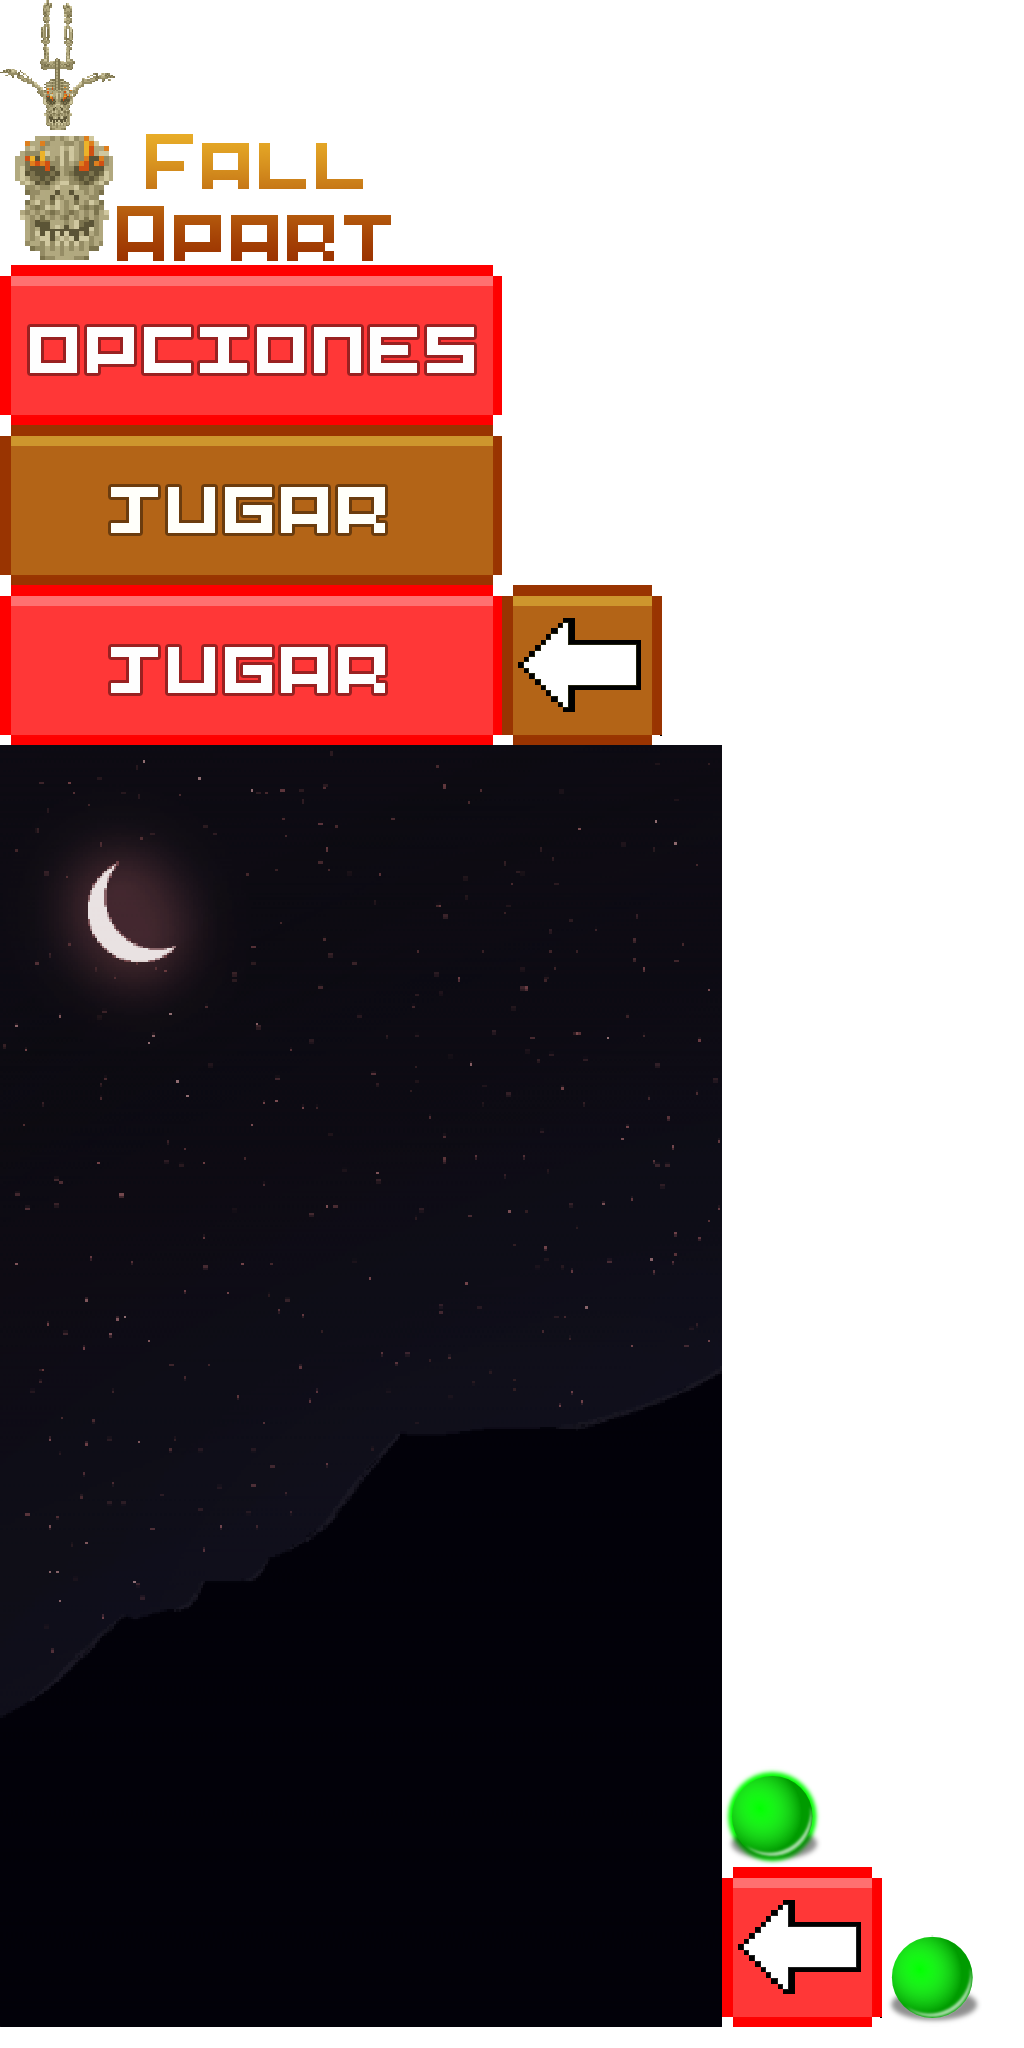
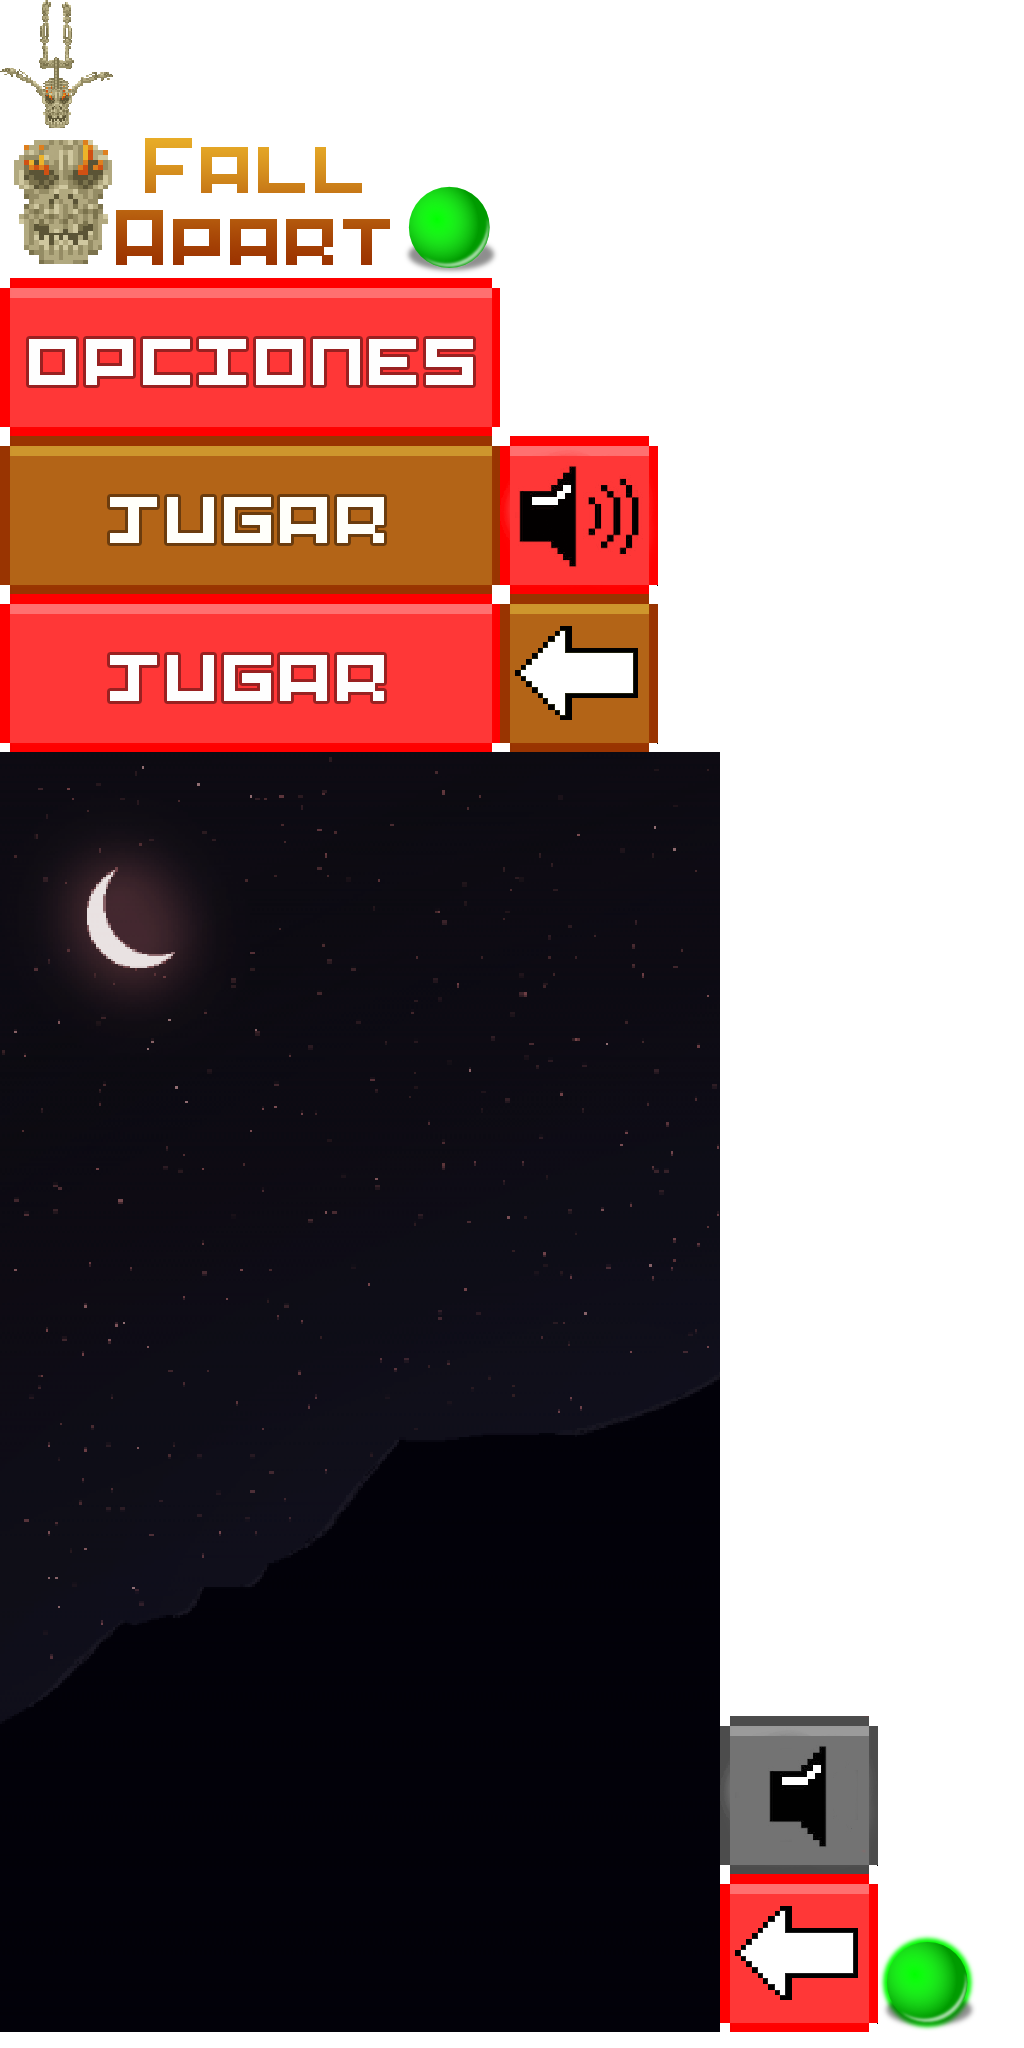
iconos y recursos de fondos. Se agrego las clases Obstaculo, Pared y Player.

Changed region(s): [[0.0, 0.0, 0.6875, 0.375], [0.6875, 0.8125, 0.9688, 1.0], [0.0938, 0.4062, 0.1562, 0.5]]

diff --git a/libgdx/core/src/com/eje/fallapart/game/Obstaculo.java b/libgdx/core/src/com/eje/fallapart/game/Obstaculo.java
@@ -1,0 +1,54 @@
+package com.eje.fallapart.game;
+
+import java.util.Random;
+
+import com.badlogic.gdx.Gdx;
+import com.badlogic.gdx.graphics.Texture;
+import com.badlogic.gdx.graphics.g2d.Sprite;
+import com.badlogic.gdx.graphics.g2d.SpriteBatch;
+import com.badlogic.gdx.graphics.g2d.TextureRegion;
+import com.badlogic.gdx.math.Vector2;
+import com.badlogic.gdx.physics.box2d.Body;
+import com.eje.fallapart.FallApartGame;
+import com.eje.fallapart.screens.AbstractScreen;
+import com.eje.fallapart.services.Animation;
+
+public class Obstaculo {
+
+	private Sprite sprite;
+	protected Body body;
+	private Random randPos;
+	private final int maxPos = 11;
+	private final int minPos = 2;
+	
+	public Obstaculo(Body body) {
+		this.body = body;
+		randPos = new Random();
+		sprite = new Sprite(new Texture("enemy1.png"));
+	}
+
+	public void update(float dt, float velocidad) {
+		if(body.getPosition().y > 30){
+			reset();
+		}
+		body.setLinearVelocity(0,velocidad);
+		//Gdx.app.log(FallApartGame.LOG, "enemy pos " + body.getPosition().y );
+	}
+	
+	public void render(SpriteBatch sb) {
+		sb.begin();
+		
+		sprite.setPosition(body.getPosition().x-2f, body.getPosition().y-3f);
+		sprite.setSize(4, 4);
+		sprite.draw(sb);
+		sb.end();
+	}
+	
+	public void reset(){
+		int randomNum = randPos.nextInt((maxPos - minPos) + 1) + minPos;
+		randomNum *= AbstractScreen.PPM;
+		body.setTransform(new Vector2(randomNum/AbstractScreen.PPM,-4), 0);
+		
+		//bdef.position.set(randomNum/AbstractScreen.PPM,0);
+	}
+}

diff --git a/libgdx/core/src/com/eje/fallapart/game/Pared.java b/libgdx/core/src/com/eje/fallapart/game/Pared.java
@@ -1,0 +1,49 @@
+package com.eje.fallapart.game;
+
+import java.util.Random;
+
+import com.badlogic.gdx.Gdx;
+import com.badlogic.gdx.graphics.Texture;
+import com.badlogic.gdx.graphics.g2d.Sprite;
+import com.badlogic.gdx.graphics.g2d.SpriteBatch;
+import com.badlogic.gdx.math.Vector2;
+import com.badlogic.gdx.physics.box2d.Body;
+import com.eje.fallapart.FallApartGame;
+import com.eje.fallapart.screens.AbstractScreen;
+
+public class Pared {
+
+	private Sprite sprite;
+	private float posY;
+	private int posX;
+	
+	public Pared(String textura,int posY,boolean isRight) {
+
+		this.posY = posY;
+		sprite = new Sprite(new Texture(textura));
+		sprite.setSize(1, 10);
+		if(isRight)
+			posX = 13;
+		else
+			posX = 0;
+	}
+
+	public void update(float dt, float velocidad) {
+		
+		if(sprite.getY()> 30){
+			posY = -10;
+		}
+		
+		//Gdx.app.log(FallApartGame.LOG, "delta " + dt + " y " + sprite.getY());
+		posY += dt*velocidad;
+		
+		
+	}
+	
+	public void render(SpriteBatch sb) {
+		sb.begin();
+		sprite.setPosition(posX, posY);
+		sprite.draw(sb);
+		sb.end();
+	}
+}

diff --git a/libgdx/core/src/com/eje/fallapart/game/Player.java b/libgdx/core/src/com/eje/fallapart/game/Player.java
@@ -1,0 +1,25 @@
+package com.eje.fallapart.game;
+
+import com.badlogic.gdx.graphics.Texture;
+import com.badlogic.gdx.graphics.g2d.TextureRegion;
+import com.badlogic.gdx.physics.box2d.Body;
+import com.eje.fallapart.services.B2DSprite;
+
+public class Player extends B2DSprite{
+	
+	public Player(Body body) {
+		
+		super(body);
+		Texture tex = new Texture("playerframes.png");
+		TextureRegion[] sprites = new TextureRegion[3];
+		for(int i = 0; i < sprites.length; i++) {
+			sprites[i] = new TextureRegion(tex, i * 91, 0, 91, 86);
+		}
+		
+		animation.setFrames(sprites, 1 / 4f);
+		
+		width = sprites[0].getRegionWidth();
+		height = sprites[0].getRegionHeight();
+		
+	}
+}
